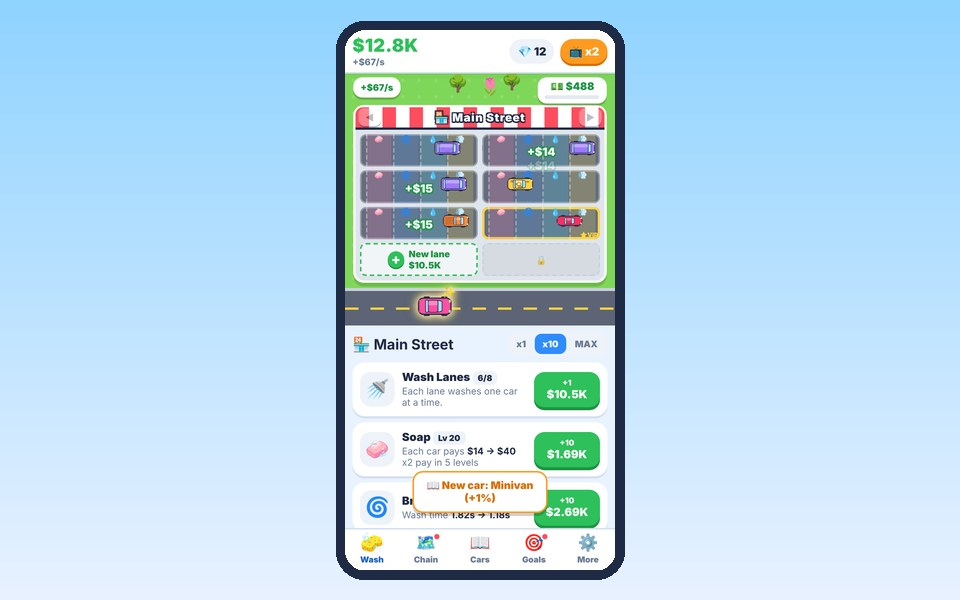
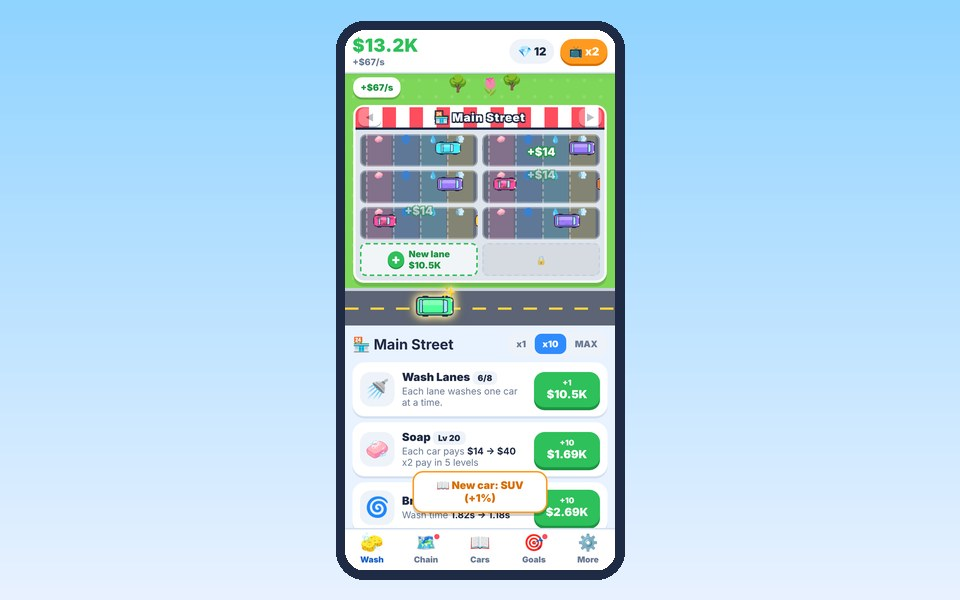
Car Wash Tycoon: cash goes straight to the total (no cash register)
Claude-Session: https://claude.ai/code/session_01147yiGdKP5pPeffzciG8k3

diff --git a/games/carwash/index.html b/games/carwash/index.html
@@ -232,7 +232,7 @@ const CONFIG = {
   START_GEMS: 5,
   TICK_MS: 250,              // the game thinks every 250 ms (4 times a second)
   OFFLINE_MAX_H: 8,          // coins while the app is closed: up to 8 hours
-  REG_CAP_MIN: 20,           // a cash register holds 20 minutes of coins (no manager)
+  AWAY_NO_MGR_MIN: 20,       // a location WITHOUT a manager only earns the first 20 min while you're away
 
   /* ---- scrubbing (tap a bay) ---- */
   SCRUB_PUSH: 0.12,          // one tap = 12% of a wash
@@ -343,7 +343,6 @@ const RAR = [
 const QUESTS = [
   {id:'wash',  n:[60,120,200], en:'Wash {n} cars', fr:'Lave {n} autos'},
   {id:'scrub', n:[80,150,250], en:'Scrub {n} times', fr:'Frotte {n} fois'},
-  {id:'reg',   n:[5,10,15],    en:'Empty a cash register {n} times', fr:'Vide une caisse {n} fois'},
   {id:'buy',   n:[10,20,40],   en:'Buy {n} upgrades', fr:'Achète {n} améliorations'},
   {id:'vip',   n:[2,4,6],      en:'Wash {n} VIP cars', fr:'Lave {n} autos VIP'},
   {id:'spark', n:[2,3,5],      en:'Catch {n} sparkly cars', fr:'Attrape {n} autos brillantes'},
@@ -472,14 +471,9 @@ const shineChance = i => Math.min(1, CONFIG.STAFF_STEP * S.loc[i].staff);
 function avgMult(i){ return (1 + (CONFIG.SHINE_MULT - 1) * shineChance(i)) * (1 + (CONFIG.VIP_MULT - 1) * CONFIG.VIP_CHANCE); }
 function rate(i, live = true){ const l = S.loc[i]; if(!l.open) return 0; return l.bays * carPrice(i) * incMul(i, live) * avgMult(i) / washTime(i, live); }
 function totalRate(live = true){ let r = 0; for(let i = 0; i < LOCS.length; i++) r += rate(i, live); return r; }
-function regCap(i){ return Math.max(carPrice(i) * 20, rate(i, false) * CONFIG.REG_CAP_MIN * 60); }
 
 function addCoins(a){ if(!(a > 0)) return; S.coins += a; S.total += a; S.run += a; }
-function earn(i, a){
-  const l = S.loc[i];
-  if(l.mgr) addCoins(a);
-  else l.reg = Math.min(regCap(i), l.reg + a);
-}
+function earn(i, a){ addCoins(a); }   // all cash goes straight to your total
 function pickCar(i){
   const rush = S ? rushOn() : false;
   const vipCh = rush ? CONFIG.RUSH_VIP : CONFIG.VIP_CHANCE;
@@ -702,13 +696,9 @@ function drawScene(force){
     el.lastP = p;
   }
   // register
-  const r = $('reg');
-  if(l.mgr){ r.className = 'mgr'; r.innerHTML = '👔 ' + esc(L({en:LOCS[i].mgr[0], fr:LOCS[i].mgr[1]})) + '<br>' + t('auto-banking', 'encaisse seul'); }
-  else {
-    const cap = regCap(i), f = Math.min(1, l.reg / cap);
-    r.className = f >= .999 ? 'full' : '';
-    r.innerHTML = '💵 $' + fmt(l.reg) + (f >= .999 ? ' ' + t('FULL', 'PLEIN') : '') + '<div class="bar"><i style="transform:scaleX(' + f.toFixed(3) + ')"></i></div>';
-  }
+  const r = $('reg'), rh = l.mgr ? '👔 ' + esc(L({en:LOCS[i].mgr[0], fr:LOCS[i].mgr[1]})) + '<br>' + t('on the job', 'au travail') : '';
+  r.style.display = l.mgr ? '' : 'none';
+  if(r.innerHTML !== rh){ r.className = 'mgr'; r.innerHTML = rh; }
   $('locRate').textContent = '+$' + fmt(rate(i)) + '/s';
   const bb = $('bayBuy');
   if(bb){ bb.classList.toggle('no', S.coins < bayCost(i)); }
@@ -770,13 +760,7 @@ function scrub(b){
   drawScene();
   if(S.tut === 0 && S.scrubs >= 5){ S.tut = 1; coach(); }
 }
-function collectReg(i, silent){
-  const l = S.loc[i]; if(l.mgr || l.reg <= 0) return 0;
-  const a = l.reg; addCoins(a); l.reg = 0; S.regs++; qAdd('reg');
-  if(!silent && i === S.cur && sceneOn()){ const p = elPos($('reg')); fx('+$' + fmt(a), p.x, p.y + 30, 'big'); sfx('coin'); }
-  if(S.tut === 2){ S.tut = 3; coach(); }
-  return a;
-}
+function collectReg(i){ const l = S.loc[i]; const a = l.reg || 0; l.reg = 0; if(a > 0) addCoins(a); return a; }  // only for old saves
 /* ---------- Rush Hour ---------- */
 function startRush(){
   S.rushUntil = now() + CONFIG.RUSH_LEN_S * 1000;
@@ -813,15 +797,13 @@ function coach(){
   const msg = [
     t('👆 Tap a lane to scrub the car faster!', '👆 Touche une voie pour frotter l’auto plus vite!'),
     t('🧼 Buy Soap below: every car pays more!', '🧼 Achète du Savon en bas : chaque auto paie plus!'),
-    t('💵 Cash waits in the register. Tap it to collect!', '💵 L’argent attend dans la caisse. Touche-la pour encaisser!'),
-    t('👔 Save up for a Manager: it collects for you, even while you’re away!', '👔 Économise pour un Gérant : il encaisse pour toi, même quand tu es absente!'),
+    t('👔 Save up for a Manager: +50% cash, and it keeps earning while you’re away!', '👔 Économise pour un Gérant : +50 % d’argent, et il continue de gagner pendant ton absence!'),
+    t('👔 Save up for a Manager: +50% cash, and it keeps earning while you’re away!', '👔 Économise pour un Gérant : +50 % d’argent, et il continue de gagner pendant ton absence!'),
   ][st];
   if(!msg || tab !== 'wash'){ c.classList.remove('on'); return; }
-  if(st === 2 && S.loc[S.cur].reg <= 0){ c.classList.remove('on'); return; }
   c.textContent = msg; c.classList.add('on');
   if(st === 1){ const e = document.querySelector('[data-up="soap"]'); if(e) e.closest('.card').classList.add('hl'); }
-  if(st === 2) $('reg').classList.add('hl');
-  if(st === 3){ const e = document.querySelector('[data-mgr]'); if(e) e.closest('.card').classList.add('hl'); }
+  if(st >= 2){ const e = document.querySelector('[data-mgr]'); if(e) e.closest('.card').classList.add('hl'); }
 }
 
 /* =====================================================================
@@ -876,8 +858,8 @@ function renderWash(){
   // manager
   const mn = L({en:loc.mgr[0], fr:loc.mgr[1]});
   h += '<div class="card"><div class="ic">👔</div><div class="info"><div class="nm">' + t('Manager: ', 'Gérant : ') + esc(mn) + '</div><div class="sub">' +
-    (l.mgr ? t('Hired! Collects the register for you, +50% cash, full earnings while you’re away.', 'Engagé! Encaisse pour toi, +50 % d’argent, revenus complets pendant ton absence.')
-           : t('Collects the register for you, +50% cash, and earns full cash while you’re away.', 'Encaisse la caisse pour toi, +50 % d’argent, et gagne tout pendant ton absence.')) + '</div></div>' +
+    (l.mgr ? t('Hired! +50% cash, and full earnings while you’re away.', 'Engagé! +50 % d’argent, et revenus complets pendant ton absence.')
+           : t('+50% cash, and keeps earning the whole time you’re away (without one: only 20 min).', '+50 % d’argent, et gagne tout le temps de ton absence (sans gérant : seulement 20 min).')) + '</div></div>' +
     (l.mgr ? '<span class="tag" style="color:var(--green)">✔</span>' : costBtn(mgrCost(i), 'data-mgr="1"', t('Hire', 'Engager'), 'cy')) + '</div>';
   h += '<p class="muted center">' + t('Tip: tap lanes to scrub · tap the ✨ sparkly car on the road!', 'Astuce : touche les voies pour frotter · touche l’auto ✨ brillante sur la route!') + '</p>';
   $('panel').innerHTML = h;
@@ -905,22 +887,21 @@ function buyBay(btn){
 function buyMgr(btn){
   const i = S.cur, l = S.loc[i]; if(l.mgr) return;
   const c = mgrCost(i); if(S.coins < c) return noMoney();
-  S.coins -= c; collectReg(i, true); l.mgr = true; bought(btn); sfx('big'); _pmT = 0;
-  if(S.tut === 3) S.tut = 4;
+  S.coins -= c; l.mgr = true; bought(btn); sfx('big'); _pmT = 0;
+  if(S.tut >= 2) S.tut = 4;
   toast('👔 ' + L({en:LOCS[i].mgr[0], fr:LOCS[i].mgr[1]}) + t(' is on the job!', ' est au travail!'), 'gold');
   renderWash(); drawScene(); coach();
 }
 /* ---------- Chain tab ---------- */
 function renderChain(){
   let h = '<h2>🗺 ' + t('Your Car Wash Chain', 'Ta chaîne de lave-autos') + '</h2>';
-  const unmanaged = S.loc.some(l => l.open && !l.mgr && l.reg > 0);
-  h += '<button class="btn green wide" id="colAll"' + (unmanaged ? '' : ' style="opacity:.5"') + '>🧾 ' + t('Collect all registers', 'Encaisser toutes les caisses') + ' <span id="colAllA"></span></button>';
+  h += '<p class="muted">' + t('Total: ', 'Total : ') + '<b>+$' + fmt(totalRate()) + '/s</b></p>';
   let shownNext = false;
   LOCS.forEach((loc, i) => {
     const l = S.loc[i];
     if(l.open){
       h += '<div class="card"' + (i === S.cur ? ' style="border-color:var(--cyan)"' : '') + '><div class="ic">' + loc.e + '</div><div class="info"><div class="nm">' + L(loc) + '</div><div class="sub">' +
-        l.bays + t(' lanes', ' voies') + ' · <b>+$' + fmt(rate(i)) + '/s</b><br>' + (l.mgr ? '👔 ' + t('Manager hired', 'Gérant engagé') : '💵 <span id="cr' + i + '">$' + fmt(l.reg) + ' / $' + fmt(regCap(i)) + '</span>') +
+        l.bays + t(' lanes', ' voies') + ' · <b>+$' + fmt(rate(i)) + '/s</b><br>' + (l.mgr ? '👔 ' + t('Manager hired', 'Gérant engagé') : '👔 ' + t('No manager yet', 'Pas encore de gérant')) +
         '</div></div><button class="btn cy" data-go="' + i + '">' + (i === S.cur ? t('Here', 'Ici') : t('Go', 'Aller')) + '</button></div>';
     } else if(!shownNext){
       shownNext = true;
@@ -931,16 +912,11 @@ function renderChain(){
     }
   });
   $('panel').innerHTML = h;
-  $('colAll').onclick = () => { let a = 0; S.loc.forEach((l, i) => { if(l.open) a += collectReg(i, true); }); if(a > 0){ sfx('coin'); toast('🧾 +$' + fmt(a), 'gold'); } renderChain(); };
   $('panel').querySelectorAll('[data-go]').forEach(b => b.onclick = () => { S.cur = +b.dataset.go; sfx('tap'); showTab('wash'); });
   $('panel').querySelectorAll('[data-open]').forEach(b => b.onclick = () => openLoc(+b.dataset.open, b));
   updateChain();
 }
-function updateChain(){
-  let tot = 0;
-  S.loc.forEach((l, i) => { if(l.open && !l.mgr){ tot += l.reg; const e = $('cr' + i); if(e) e.textContent = '$' + fmt(l.reg) + ' / $' + fmt(regCap(i)); } });
-  const e = $('colAllA'); if(e) e.textContent = tot > 0 ? '(+$' + fmt(tot) + ')' : '';
-}
+function updateChain(){}
 function openLoc(i, btn){
   const c = openCost(i); if(S.coins < c) return noMoney();
   S.coins -= c; S.loc[i] = newLoc(i, true); bought(btn); sfx('big');
@@ -969,7 +945,7 @@ function ensureQuests(){
   const d = dayKey();
   if(S.q && S.q.day === d) return;
   const canReg = S.loc.some(l => l.open && !l.mgr);
-  let pool = QUESTS.filter(q => q.id !== 'reg' || canReg).sort(() => Math.random() - .5).slice(0, 3);
+  let pool = QUESTS.slice().sort(() => Math.random() - .5).slice(0, 3);
   S.q = {day: d, chest: false, list: pool.map(q => ({id: q.id, goal: q.n[Math.floor(Math.random() * q.n.length)], have: 0, claimed: false}))};
 }
 function qAdd(id, n){ if(!S.q) return; S.q.list.forEach(q => { if(q.id === id && q.have < q.goal) q.have = Math.min(q.goal, q.have + (n || 1)); }); }
@@ -1306,7 +1282,6 @@ function secondly(){
   }
   if(tab === 'chain') updateChain();
   if(tickN % 8 === 0){ checkAch(); updateDots(); }
-  if(S.tut === 2 && tab === 'wash' && !$('coach').classList.contains('on')) coach();
 }
 function refreshMaxLabels(){ // in MAX mode the amount you can buy changes as coins come in
   const ch = ['soap', 'brush', 'staff'].some(k => { const b = $('panel').querySelector('[data-up="' + k + '"]'); return b && +b.dataset.n !== upN(S.cur, k); });
@@ -1322,7 +1297,7 @@ function renderChips(){
 function updateDots(){
   const g = $('dot_goals'); if(g) g.classList.toggle('on', claimables() > 0);
   const c = $('dot_chain');
-  if(c){ const nx = S.loc.findIndex(l => !l.open); c.classList.toggle('on', (nx >= 0 && S.coins >= openCost(nx)) || S.loc.some((l, i) => l.open && !l.mgr && i !== S.cur && l.reg >= regCap(i) * .999)); }
+  if(c){ const nx = S.loc.findIndex(l => !l.open); c.classList.toggle('on', (nx >= 0 && S.coins >= openCost(nx)) ); }
 }
 /* ---------- away time ---------- */
 function offlineCredit(sec, popup){
@@ -1335,16 +1310,16 @@ function offlineCredit(sec, popup){
     const e = rate(i, false) * adF * sec;
     cars += l.bays * sec / washTime(i, false);
     if(l.mgr) banked += e;
-    else { const add = Math.max(0, Math.min(regCap(i) - l.reg, e)); l.reg += add; inReg += add; }
+    else inReg += rate(i, false) * adF * Math.min(sec, CONFIG.AWAY_NO_MGR_MIN * 60);
   });
-  addCoins(banked); S.cars += Math.floor(cars);
+  addCoins(banked + inReg); S.cars += Math.floor(cars);
   if(popup && banked + inReg > 0){
-    let body = '$' + fmt(banked) + '<div class="muted" style="font-size:13px;font-weight:400">' + t('banked by your managers', 'encaissé par tes gérants') + '</div>';
-    if(inReg > 0) body += '<div style="font-size:16px;margin-top:6px">💵 +$' + fmt(inReg) + '</div><div class="muted" style="font-size:13px;font-weight:400">' + t('waiting in cash registers (managers collect it for you)', 'en attente dans les caisses (les gérants l’encaissent pour toi)') + '</div>';
-    setTimeout(() => showReward('🌙', t('While you were away', 'Pendant ton absence') + ' (' + fmtTime(sec) + ')', body, banked > 0 ? {
+    let body = '+$' + fmt(banked + inReg);
+    if(S.loc.some(l => l.open && !l.mgr)) body += '<div class="muted" style="font-size:13px;font-weight:400">' + t('Tip: locations without a manager only earn for 20 min while you’re away.', 'Astuce : les succursales sans gérant gagnent seulement 20 min pendant ton absence.') + '</div>';
+    setTimeout(() => showReward('🌙', t('While you were away', 'Pendant ton absence') + ' (' + fmtTime(sec) + ')', body, {
       label: t('Watch ad: double it', 'Pub : double-le'),
-      go: async () => { if(await rewardAd()){ addCoins(banked); toast('💵 +$' + fmt(banked), 'gold'); save(); } }
-    } : null), 300);
+      go: async () => { if(await rewardAd()){ addCoins(banked + inReg); toast('💵 +$' + fmt(banked + inReg), 'gold'); save(); } }
+    }), 300);
   }
   save();
 }
@@ -1370,6 +1345,7 @@ function boot(){
   setTimeout(() => {
     clearInterval(iv);
     const saved = load();
+    if(saved){ S = saved; S.loc.forEach((l, i) => collectReg(i)); if(S.q) S.q.list.forEach(q => { if(q.id === 'reg'){ q.id = 'wash'; q.goal = 60; q.have = 0; } }); }
     S = saved || fresh();
     dispCoins = S.coins;
     applySettings(); ensureQuests(); renderNav(); showTab('wash');
@@ -1385,7 +1361,6 @@ function boot(){
     if(!S) return;
     const bay = e.target.closest('.bay[data-b]'); if(bay){ scrub(+bay.dataset.b); return; }
     if(e.target.closest('#bayBuy')){ buyBay(); return; }
-    if(e.target.closest('#reg')){ collectReg(S.cur); drawScene(); return; }
     if(e.target.closest('.spark')){ catchSpark(); return; }
     const opens = S.loc.map((x, k) => x.open ? k : -1).filter(k => k >= 0), at = opens.indexOf(S.cur);
     if(e.target.closest('#locPrev') && at > 0){ S.cur = opens[at - 1]; sfx('tap'); buildScene(); renderWash(); coach(); }
